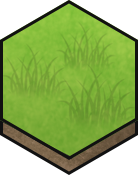
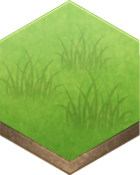
Improved tile image positioning and added new images

diff --git a/app/js/View/HexView.js b/app/js/View/HexView.js
@@ -27,29 +27,33 @@ var HexView = Backbone.KonvaView.extend({
     el: function() {
         console.log("HexView.el()");
 
+        var radius = 80;
+        var width = radius * 1.75;
+        var height = radius * 2;
         var grassTile = new GrassTile();
 
         var polygon = new Konva.RegularPolygon({
             sides: 6,
-            radius: 80,
+            radius: radius,
             x: this.model.get("x"),
             y: this.model.get("y"),
-            strokeWidth: 6,
+            stroke: "black",
+            strokeWidth: 1,
             opacity: 1
         });
 
         var image = new Konva.Image({
-            width: 142,
-            height: 180,
-            x: this.model.get("x") - 76,
-            y: this.model.get("y") - 92,
+            width: width,
+            height: height + 15,
+            x: this.model.get("x") - (width / 2),
+            y: this.model.get("y") - (height / 2),
             image: grassTile.el
         });
 
-        var group = new Konva.Group();
-        group.add(image, polygon);
+        var tile = new Konva.Group();
+        tile.add(image, polygon);
 
-        return group;
+        return tile;
     },
 
     changeFill: function() {
@@ -77,9 +81,13 @@ var HexView = Backbone.KonvaView.extend({
     update: function(object) {
         console.log("HexView.update()");
 
-        console.log(this.el);
+        console.log(this.el.children[0].attrs.image["src"]);
 
-        this.el.children[1].attrs["stroke"] = this.model.get("fill");
+        if (this.el.children[0].attrs.image["src"] == "http://localhost:3000/img/paper.png") {
+            this.el.children[0].attrs.image["src"] = "img/grass.png"
+        } else {
+            this.el.children[0].attrs.image["src"] = "img/paper.png"
+        }
 
         this.render();
     },

diff --git a/app/js/View/GrassTile.js b/app/js/View/GrassTile.js
@@ -7,7 +7,8 @@ var GrassTile = Backbone.View.extend({
 
     el: function() {
         var image = new Image();
-        image.src = 'img/grass.png';
+        var images = ["img/paper.png", "img/paper.png", "img/grass.png"];
+        image.src = images[Math.floor(Math.random() * images.length)];
         return image;
     }
 
